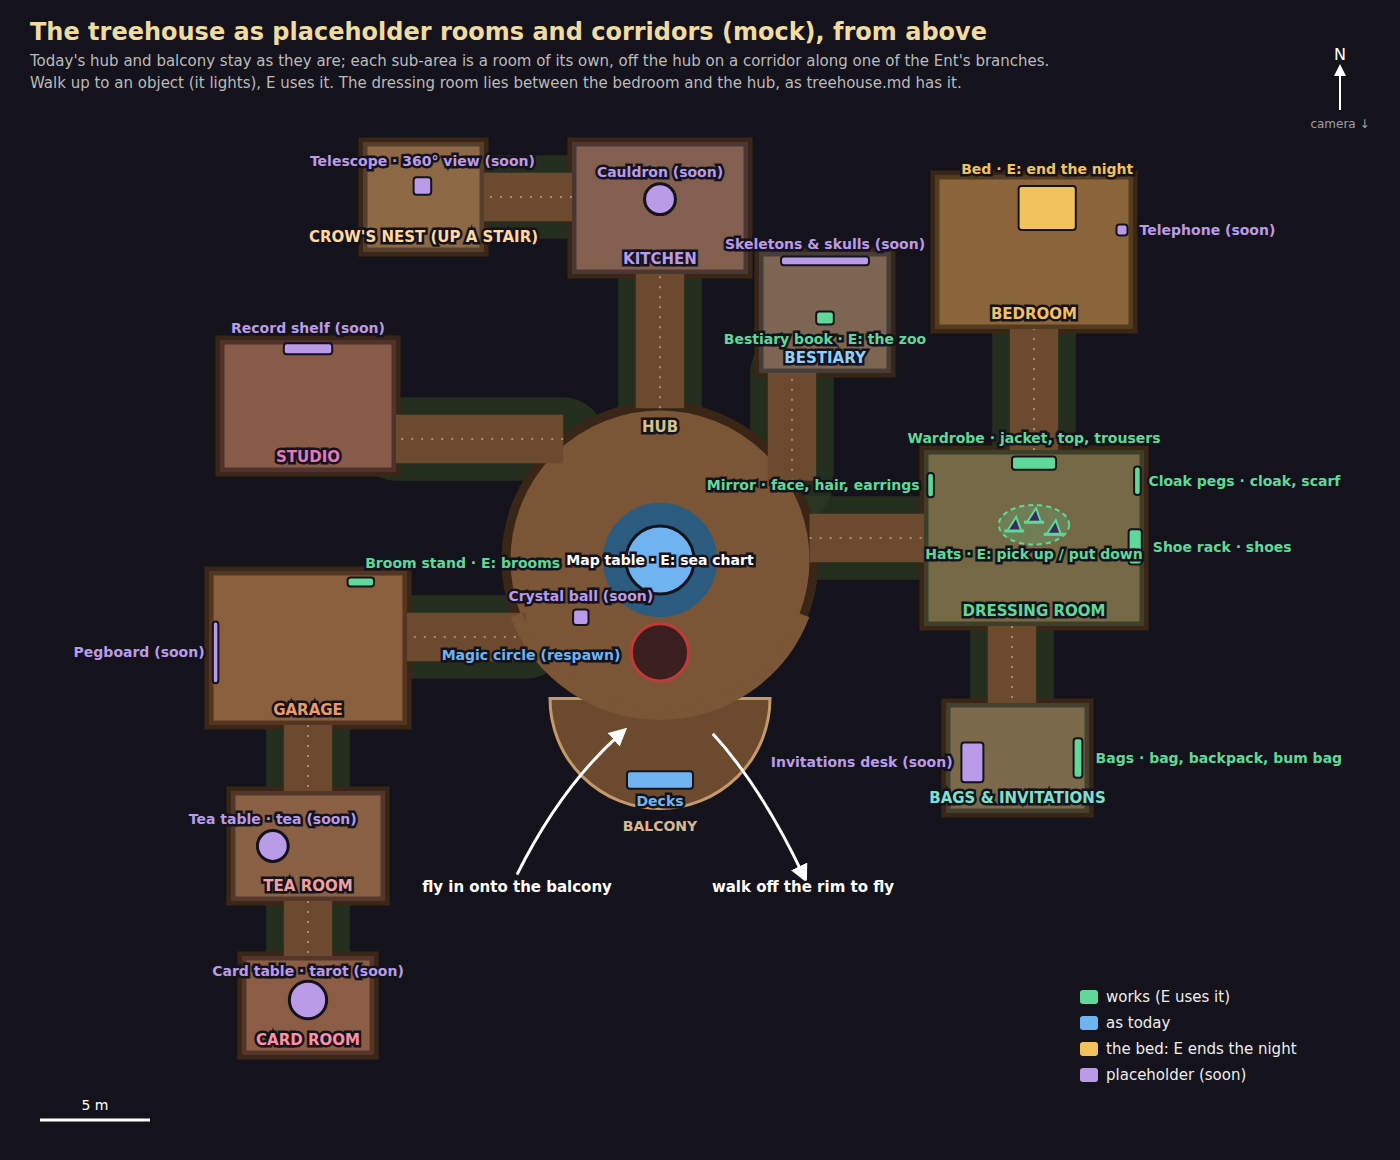
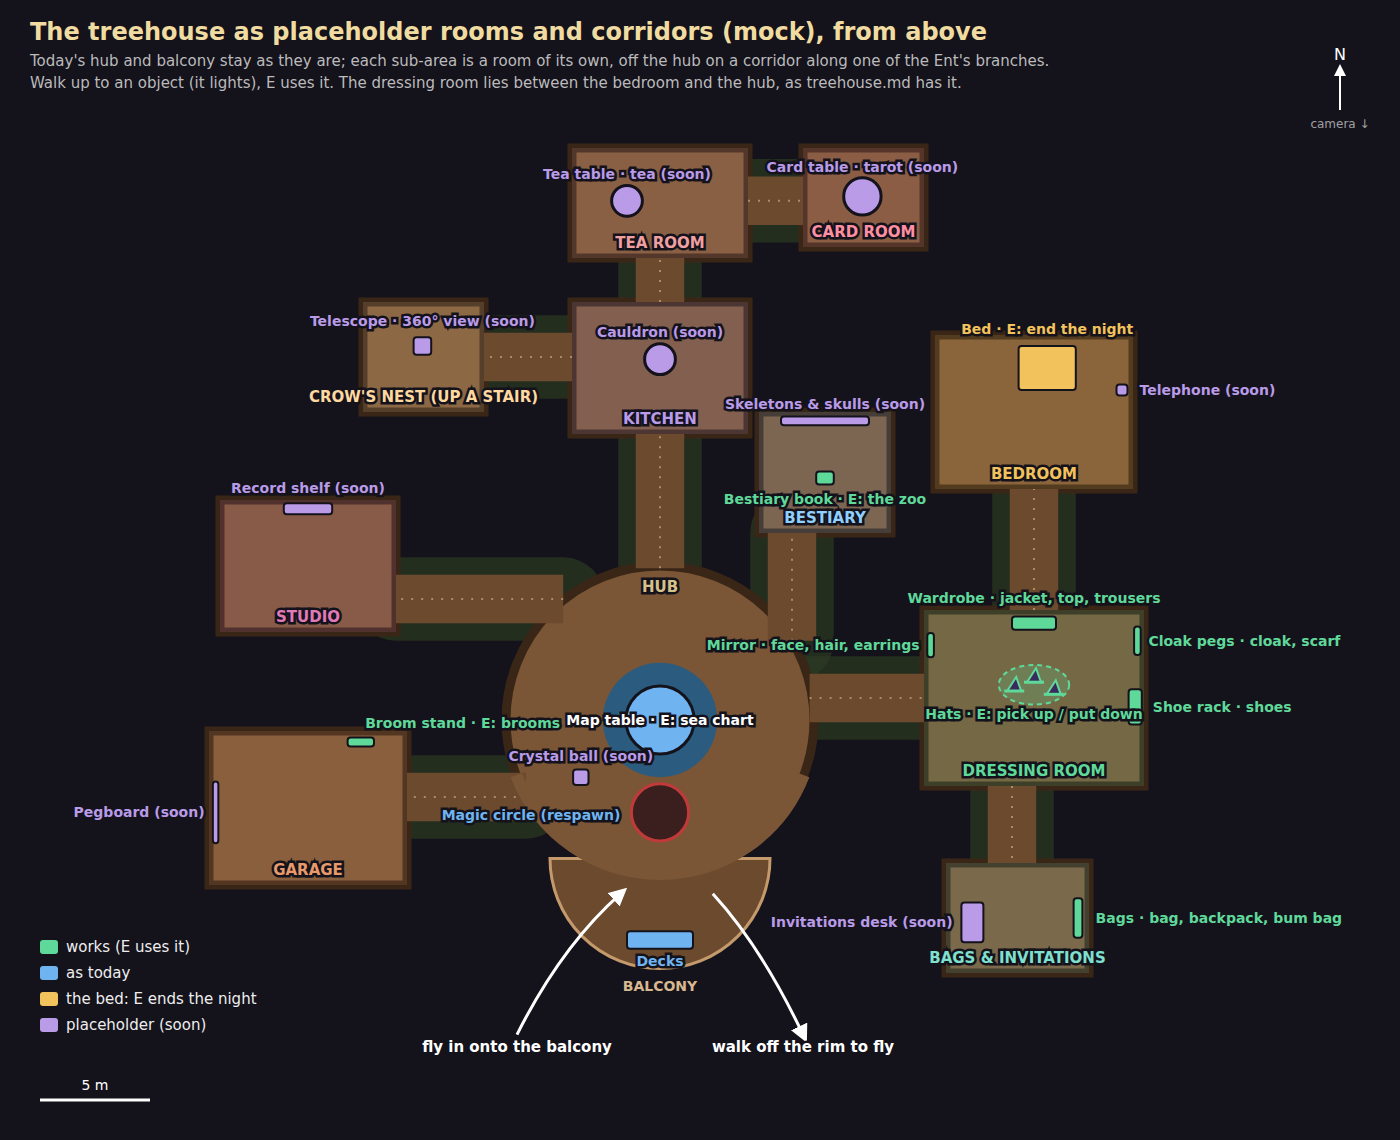
Treehouse mock: the tea room off the kitchen, the card room off the tea room (Ed)
Claude-Session: https://claude.ai/code/session_01TZiiLtuTHaQyxfLgD6H57G

diff --git a/previews/ed/big-room-mock/NOTES.md b/previews/ed/big-room-mock/NOTES.md
@@ -29,8 +29,8 @@ Nothing is built; this is the mock to say go or change. All files are in `previe
 | **Bedroom** | the dressing room, north | the **bed** (E ends the night, after a confirm); the **telephone** (placeholder). Through the dressing room, as treehouse.md has it |
 | **Bags & invitations** | the dressing room, south | **bags** (bag, backpack, bum bag); the **invitations desk** (placeholder) |
 | **Garage** | the hub, west, by the balcony | the **broom stand** (E: the brooms); the **pegboard**, the broom-parts wall (placeholder) |
-| **Tea room** | the garage, south | the **tea table** (placeholder) |
-| **Card room** | the tea room, south | the **card table**, the tarot game to come (placeholder) |
+| **Tea room** | the kitchen, north | the **tea table** (placeholder) |
+| **Card room** | the tea room, east | the **card table**, the tarot game to come (placeholder) |
 | **Studio** | the hub, west | the **record shelf** (placeholder) |
 | **Bestiary** | the hub, north-east | the **bestiary book** (E: the zoo, which exists today as `?zoo`); **skeletons and skulls** (placeholder) |
 | **Kitchen** | the hub, north | the **cauldron** (placeholder) |
